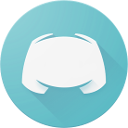
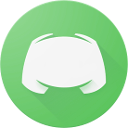
History of channel is fetched. Color theme changed to green.

diff --git a/lib/src/ChatPane.dart b/lib/src/ChatPane.dart
@@ -59,7 +59,8 @@ class ChatPane {
       if(e.message.channel == this.selectedChannel)
       {
         DocumentFragment msg = document.importNode(messageTemplate.content, true);
-        msg.querySelector(".message").text = e.message.content;
+        msg.querySelector(".user-name").text = e.message.author.username;
+        msg.querySelector(".content").text = e.message.content;
         messages.append(msg);
       }
       else
@@ -85,15 +86,38 @@ class ChatPane {
     });
 
     channelSelector.addEventListener('change', (e) {
-      discord.GuildChannel channel = optionToChannel[channelSelector.selectedOptions.first];
-      if(channel != selectedChannel)
+      discord.TextChannel channel = optionToChannel[channelSelector.selectedOptions.first];
+
+      if(channel == selectedChannel)
       {
-        for(Element msg in messages.querySelectorAll(".message"))
+        return;
+      }
+
+      channel.getMessages().then((messages) {
+        for(Element msg in this.messages.querySelectorAll(".message"))
         {
           msg.remove();
         }
-      }
-      selectedChannel = channel;
+        selectedChannel = channel;
+
+        List<discord.Message> list = new List<discord.Message>();
+
+        for (const msg in messages.values)
+        {
+          list.add(msg);
+        }
+
+        list.sort((a, b) {
+          return a.timestamp.compareTo(b.timestamp);
+        });
+
+        list.forEach((message) {
+          DocumentFragment msg = document.importNode(messageTemplate.content, true);
+          msg.querySelector(".user-name").text = message.author.username;
+          msg.querySelector(".content").text = message.content;
+          this.messages.append(msg);
+        });
+      });
     });
   }
 

diff --git a/web/index.html b/web/index.html
@@ -56,14 +56,12 @@
         </div>
 
         <div class="guild-panes">
-
           <template name="guild-pane-template">
             <div class="guild-pane">
               <img class="guild-icon" height="128" width="128">
               <small class="guild-title"></small>
             </div>
           </template>
-
         </div>
 
         <div class="chat-panes">
@@ -74,7 +72,11 @@
               </select>
               <div class="chat-messages">
                 <template name="message-template">
-                  <p class="message"></p>
+                  <div class="message">
+                    <time class="timestamp"></time>
+                    <div class="user-name"></div>
+                    <div class="content"></div>
+                  </div>
                 </template>
               </div>
               <form>

diff --git a/web/main.dart b/web/main.dart
@@ -57,7 +57,7 @@ void main() {
     InputElement input = controlsHTML.querySelector("input");
     ButtonElement button = controlsHTML.querySelector("button");
 
-    button.disabled = true;
+    button.disabled = input.value.length == 0;
     button.addEventListener('click', (e) {
       DocumentFragment botDom = document.importNode(discordBotTemplate.content, true);
       DiscordShell discordShell = new DiscordShell(botDom, input.value);

diff --git a/lib/src/DiscordShell.dart b/lib/src/DiscordShell.dart
@@ -51,7 +51,7 @@ class DiscordShell {
 
     statusHTML.text = 'Loading bot~';
     discord.configureDiscordForBrowser();
-    bot = new discord.Client(token);
+    bot = new discord.Client(token, new discord.ClientOptions(autoShard: false, forceFetchMembers: false));
 
     bot.onReady.listen((discord.ReadyEvent e) async {
       bot.guilds.forEach((key, guild) {

diff --git a/web/css/DiscordShell.css b/web/css/DiscordShell.css
@@ -34,3 +34,13 @@ img.guild-icon {
   margin-top: 0.1em;
   margin-bottom: 0.1em;
 }
+
+.message > .user-name {
+  width: 12em;
+  height: 100%;
+  display: inline-block;
+}
+
+.message > .content {
+  display: inline-block;
+}
